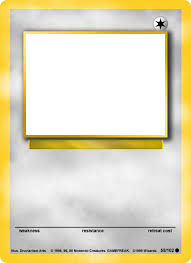
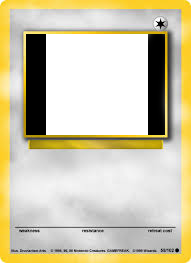
Added samples

Changed region(s): [[0.1309, 0.1217, 0.2618, 0.5171], [0.7592, 0.1217, 0.8639, 0.5171]]

diff --git a/README.md b/README.md
@@ -1,6 +1,6 @@
 # Pokemon Card Generator
 
-![Example](img/example.png)
+![Example](samples/pokemon.png)
 
 ## Run StyleGAN
 
